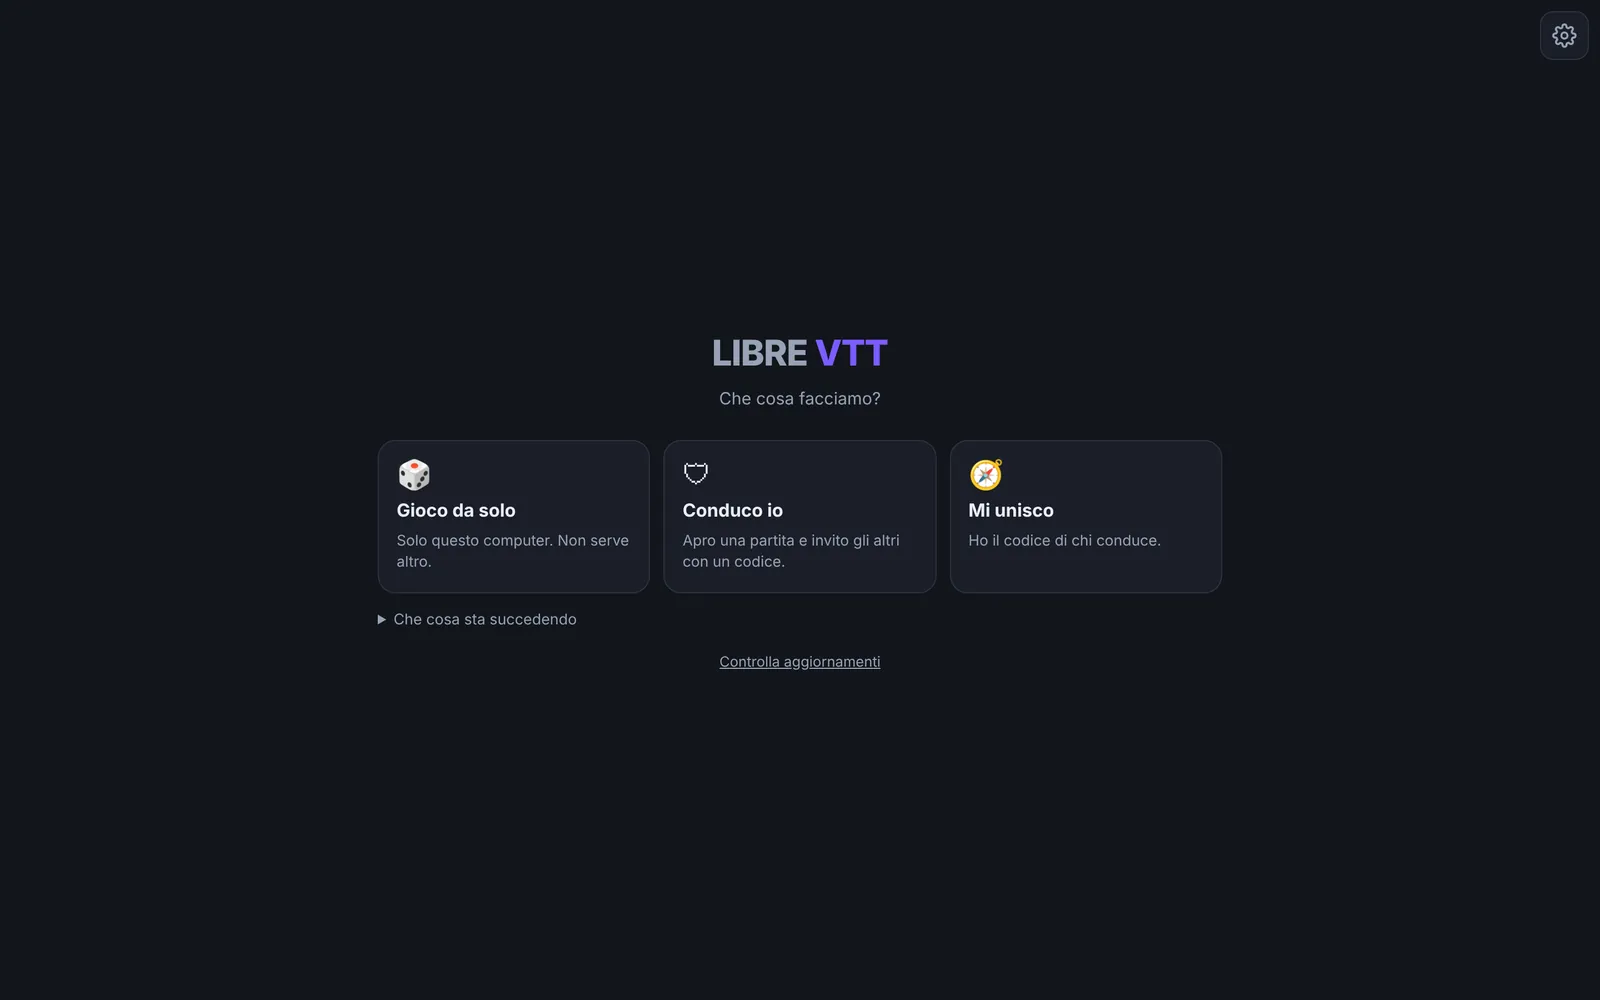
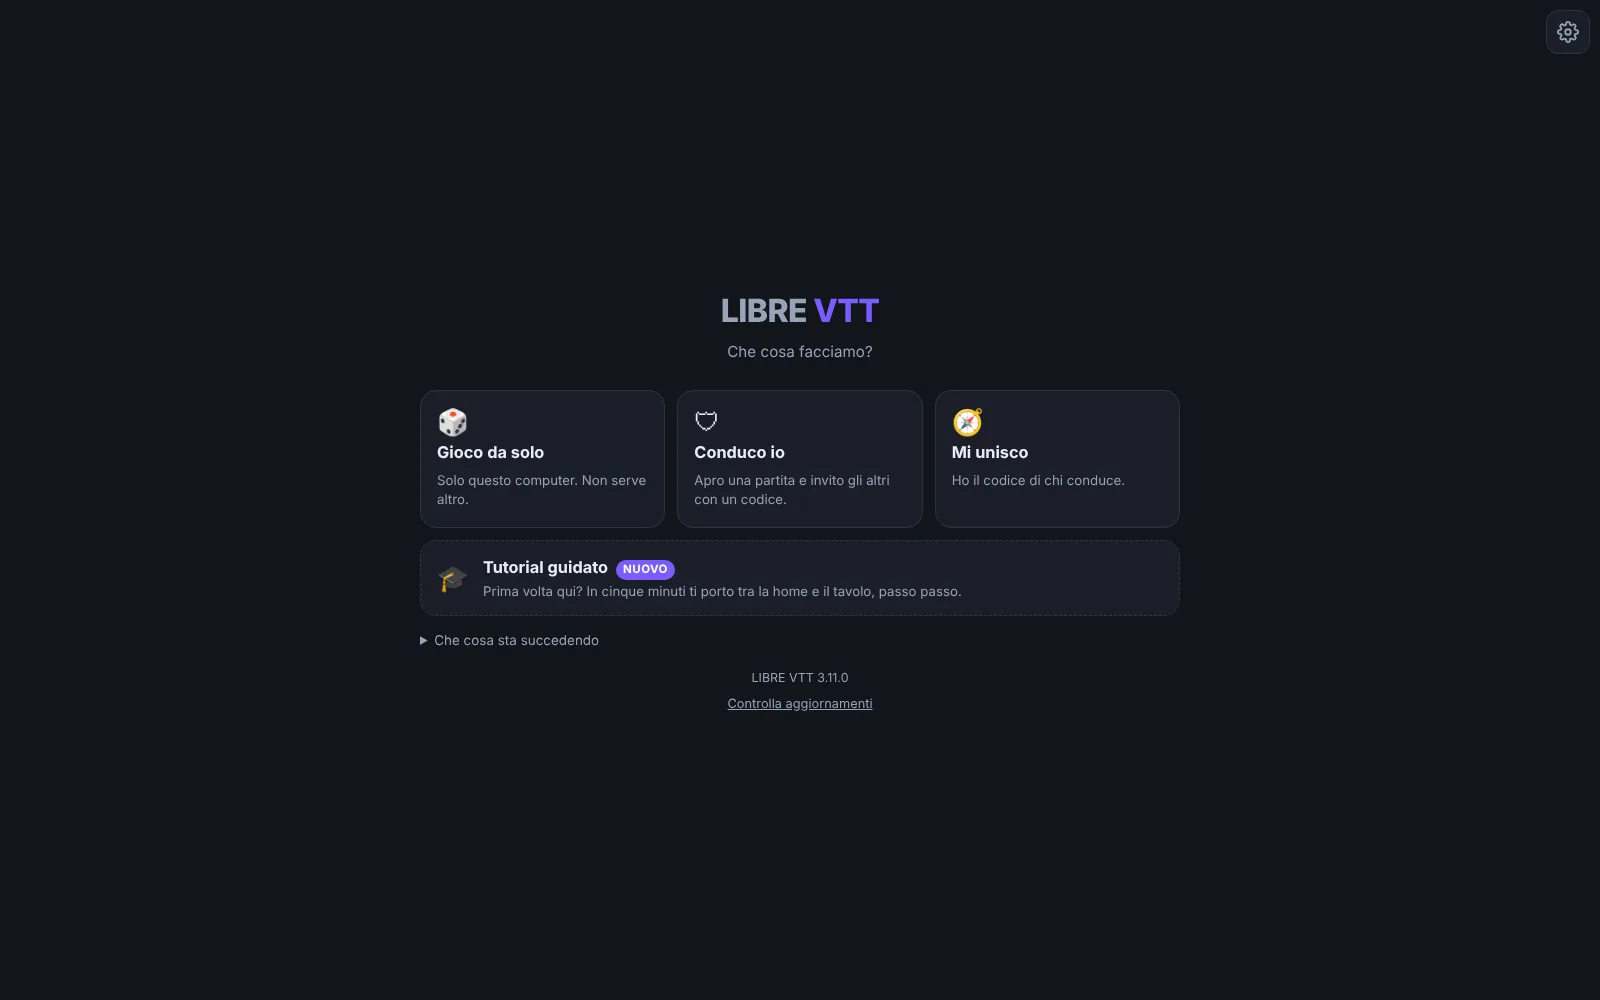
Sito e README: foto del tavolo rifatte con la 3.11.0 (aree, schede in tre pagine, tutorial nella home)
Claude-Session: https://claude.ai/code/session_012UnwLAovHbe9gsJW2mcLYx

diff --git a/sviluppo/sito-web/pagina/index.html b/sviluppo/sito-web/pagina/index.html
@@ -96,7 +96,7 @@
 
   <section class="foto-doppie">
     <figure><img src="immagini/cripta.webp" loading="lazy" alt="La cripta con la nebbia di guerra" data-ta="La cripta con la nebbia di guerra"><figcaption data-t="La nebbia di guerra: il master vede attraverso il velo.">La nebbia di guerra: il master vede attraverso il velo.</figcaption></figure>
-    <figure><img src="immagini/scheda.webp" loading="lazy" alt="La scheda di un goblin" data-ta="La scheda di un goblin"><figcaption data-t="Le schede, collegate ai segnalini.">Le schede, collegate ai segnalini.</figcaption></figure>
+    <figure><img src="immagini/scheda.webp" loading="lazy" alt="La scheda di un goblin" data-ta="La scheda di un goblin"><figcaption data-t="Le schede in tre pagine, collegate ai segnalini.">Le schede in tre pagine, collegate ai segnalini.</figcaption></figure>
   </section>
 
   <section id="modi" class="modi">

diff --git a/sviluppo/sito-web/pagina/pagina.js b/sviluppo/sito-web/pagina/pagina.js
@@ -35,7 +35,7 @@
     'La cripta con la nebbia di guerra': 'The crypt with fog of war',
     'La nebbia di guerra: il master vede attraverso il velo.': 'Fog of war: the GM sees through the veil.',
     'La scheda di un goblin': 'A goblin sheet',
-    'Le schede, collegate ai segnalini.': 'Sheets, linked to tokens.',
+    'Le schede in tre pagine, collegate ai segnalini.': 'Sheets in three pages, linked to tokens.',
     'Il master apre la partita': 'The GM opens the game',
     "Scarica l'app, sceglie «Conduco io» e la campagna, e accende «Partita pubblica». L'app gli dà un codice.": 'They download the app, choose “I run the game” and the campaign, and turn on “Public game”. The app gives them a code.',
     'Manda il codice ai giocatori': 'They send the code to the players',
